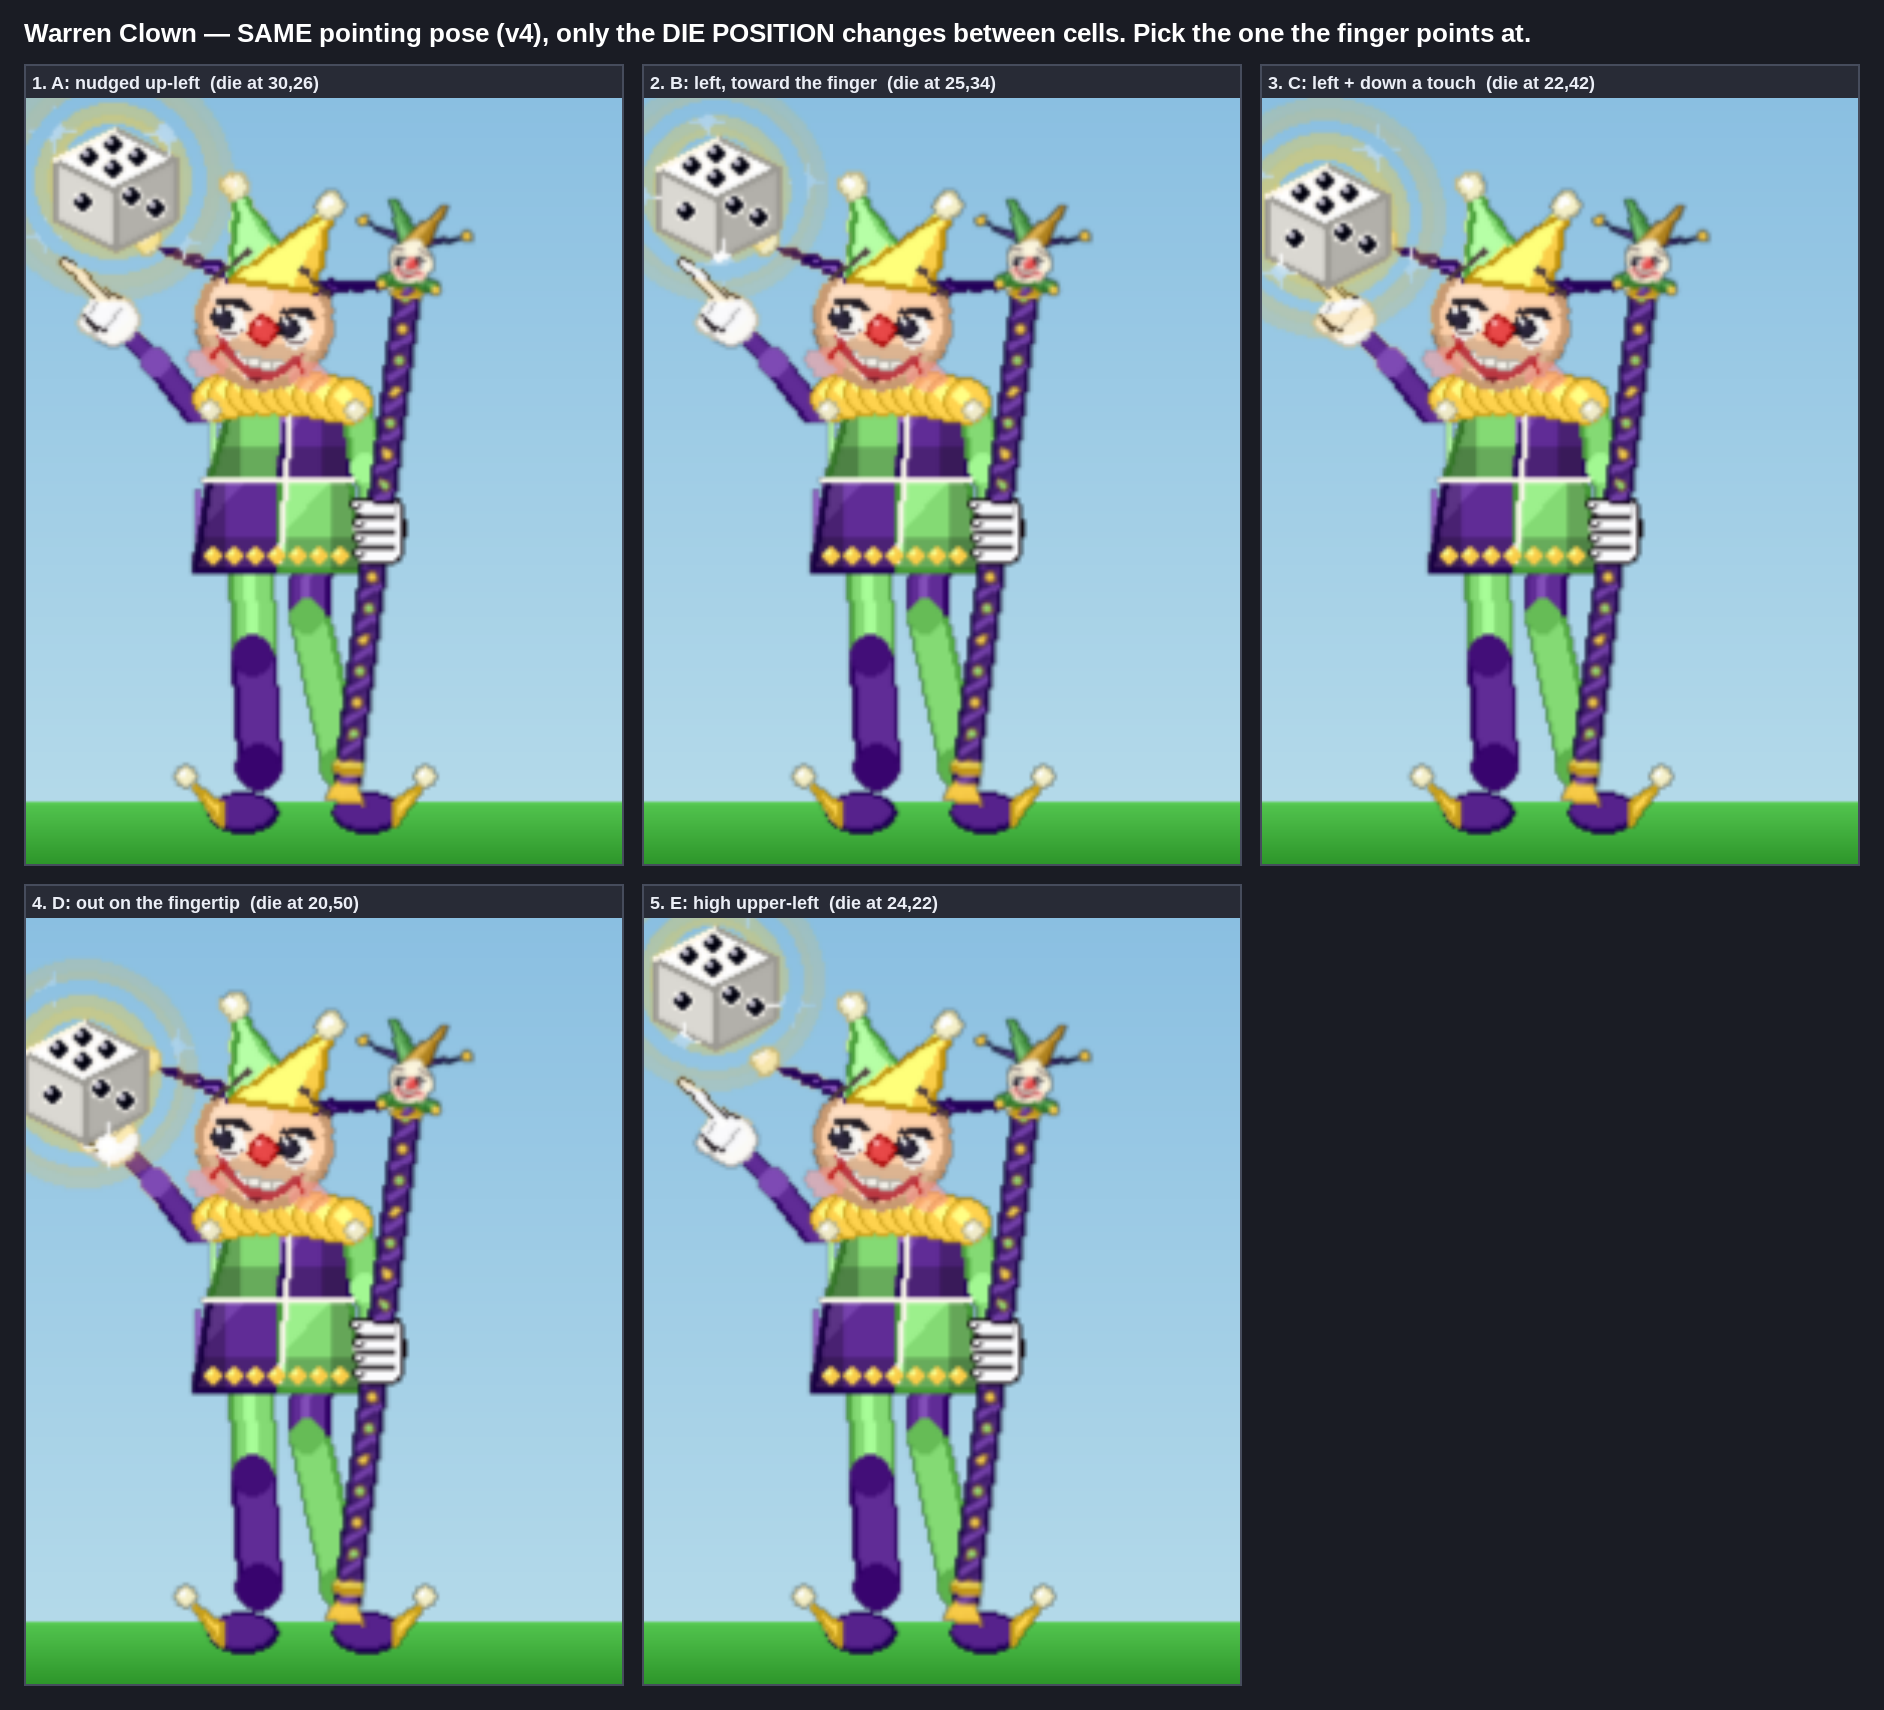
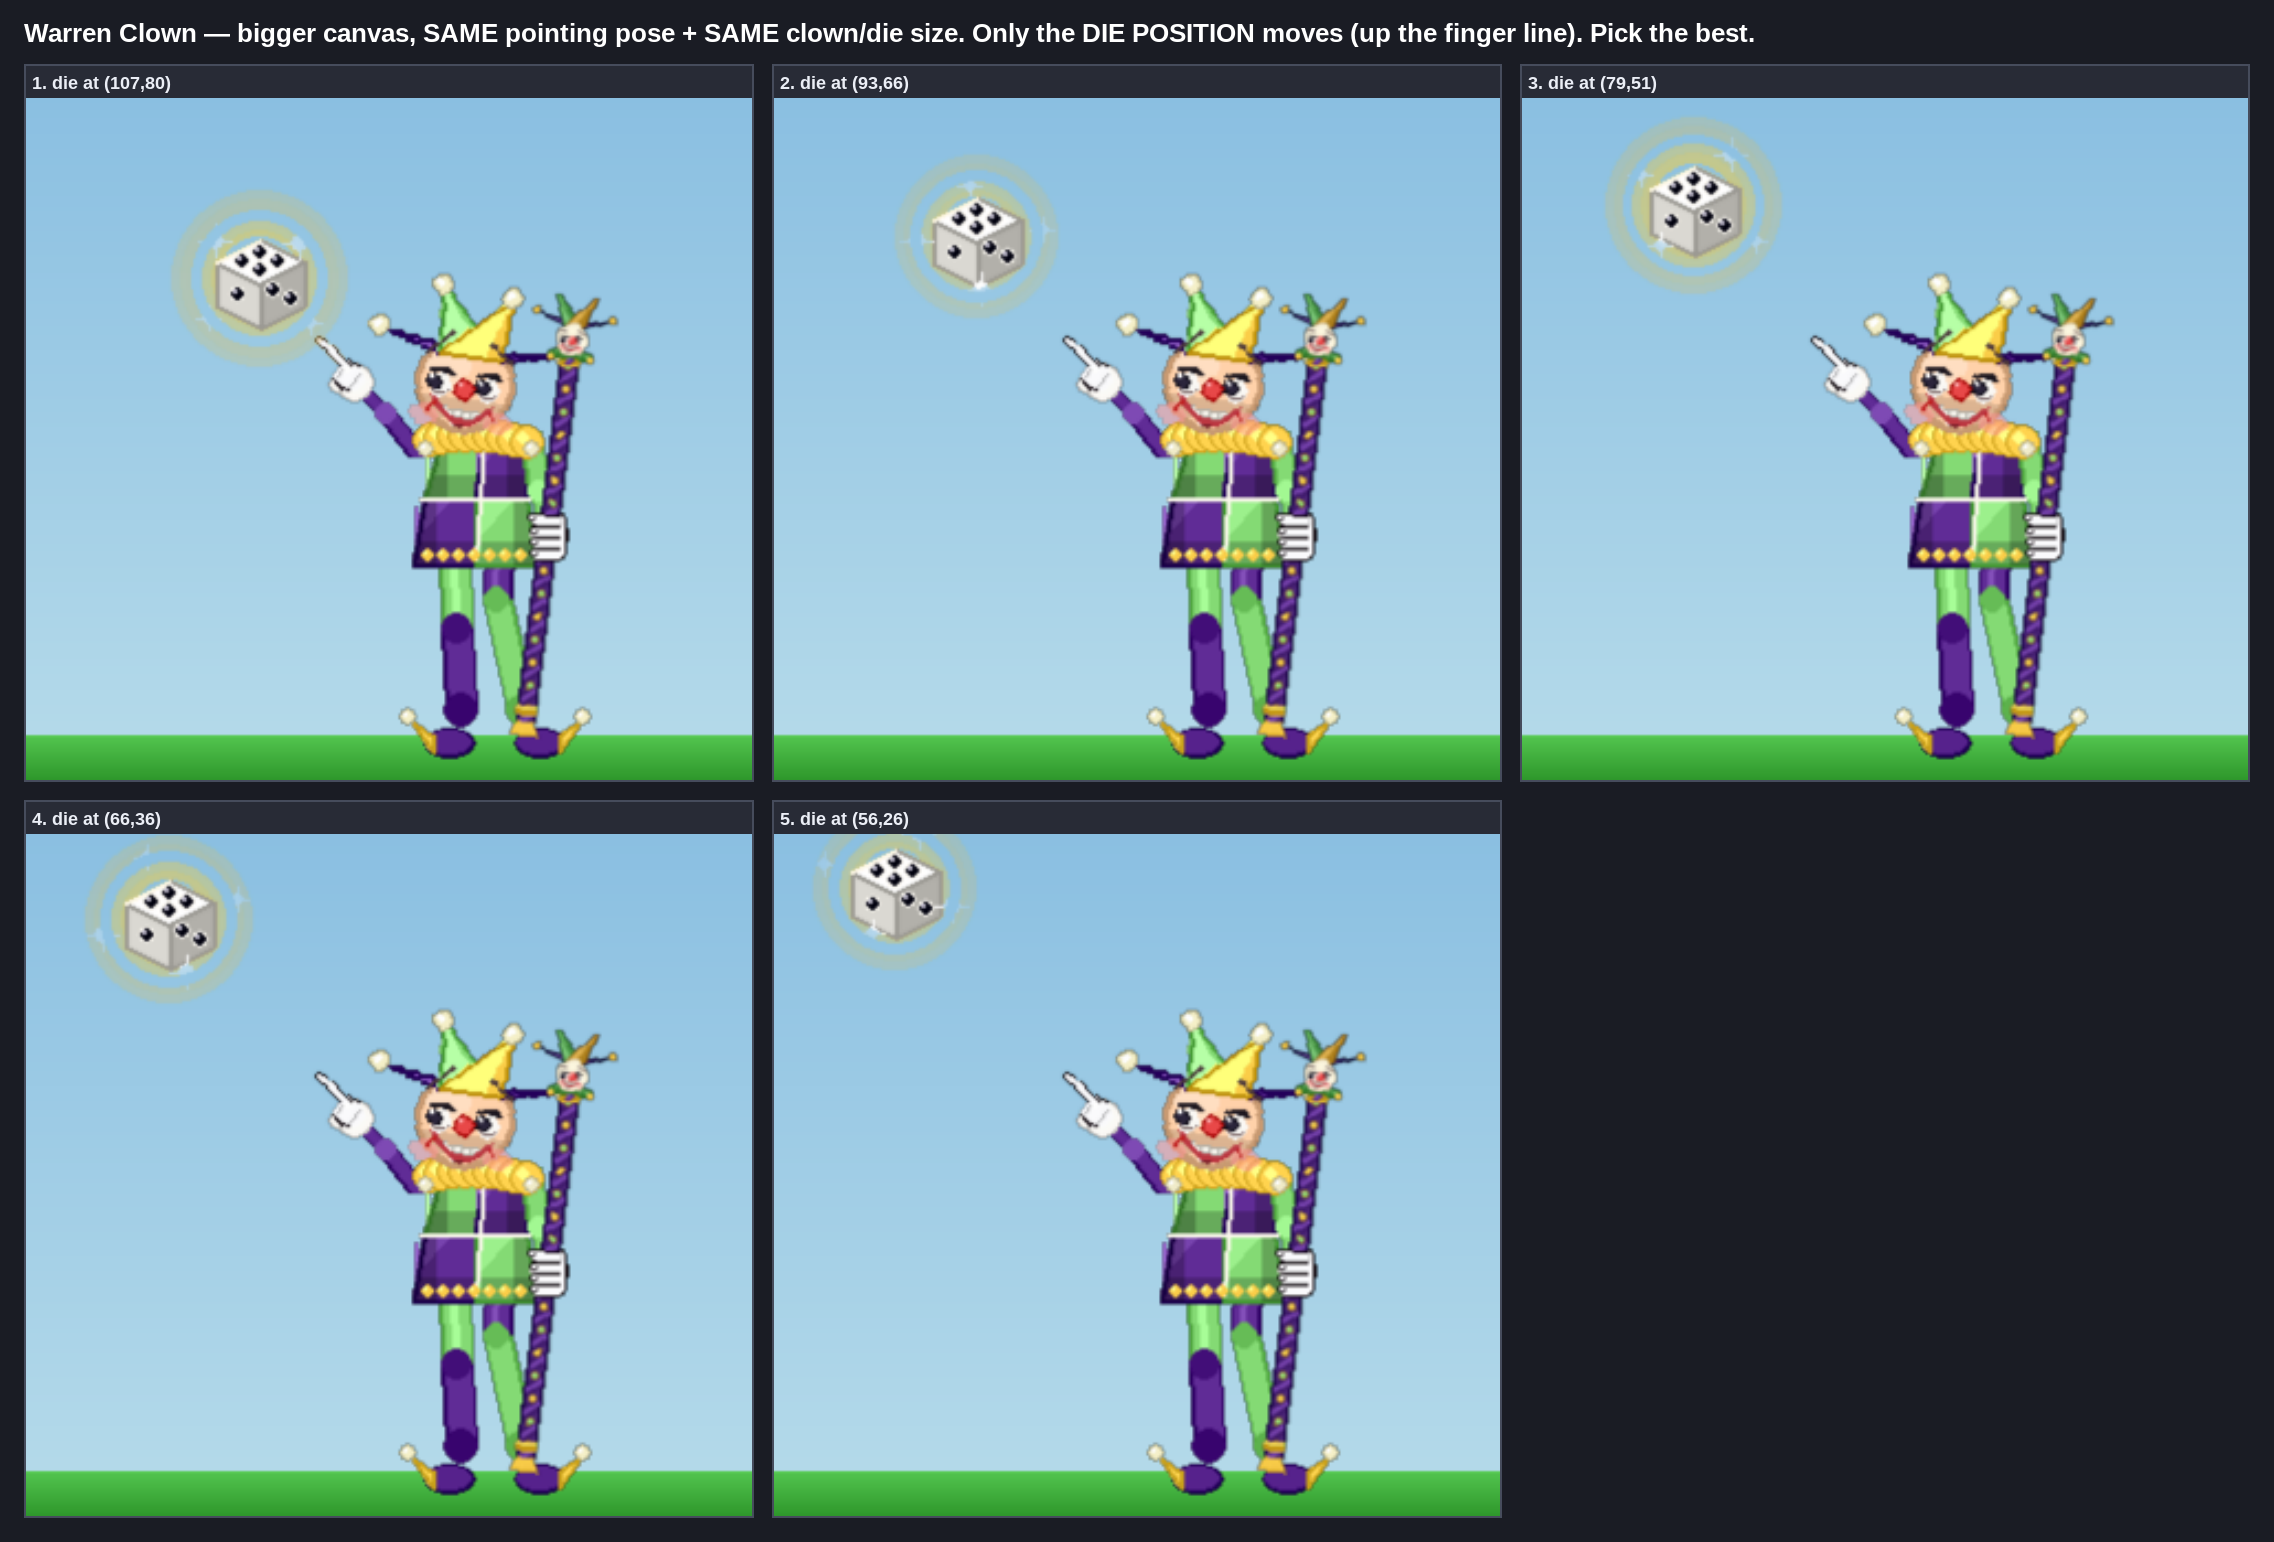
Round 17: enlarge canvas so die can sit up-left on the pointing line
Add ext_left/ext_top/ext_right margins to render_clown_staff_r17 (grow the
image, not the clown or die; figure shifts right/down). Re-do the die sweep
on the bigger canvas, walking the die up the extended finger's line into the
top-left so it reads as genuinely pointed-at.

diff --git a/tools/render_warren_sword.py b/tools/render_warren_sword.py
@@ -8540,18 +8540,25 @@ def _r17_die_hand(surf, hand, *, wrist, gesture="mitt", knuckles_up=False,
 
 def render_clown_staff_r17(idx, *, total_px, bauble_px, cup_dy, wrist,
                            gesture="mitt", knuckles_up=False, point_len=0.0,
-                           point_bow=0.0, die_dx=0, die_dy=0, die_pulse_off=2.0):
+                           point_bow=0.0, die_dx=0, die_dy=0,
+                           ext_left=0, ext_top=0, ext_right=0, die_pulse_off=2.0):
     """Round-17 hero panel — identical to r16 except the die-side hand is drawn by
     `_r17_die_hand` (a simple closed-glove gesture, not an open palm). Locked grip,
-    floating die, and heel-on-wrist ~47deg continuation are unchanged."""
+    floating die, and heel-on-wrist ~47deg continuation are unchanged.
+
+    `ext_left`/`ext_top`/`ext_right` grow the CANVAS (in VIEW px) without resizing
+    the clown or die — the figure simply shifts right/down by the margins — so the
+    floating die has room to sit further up-left (where the pointing finger aims)
+    without running off the frame. All zero reproduces the original panel exactly."""
     spec = dict(JESTERS[-1][1])
     spec.pop("no_shadow", None)
     ss = CLOWN_SS
     palette = shaped_palette(DAY_PHASE)
-    bw, bh = VIEW_W * ss, VIEW_H * ss
+    cw, ch = VIEW_W + ext_left + ext_right, VIEW_H + ext_top
+    bw, bh = cw * ss, ch * ss
     big = pygame.Surface((bw, bh))
 
-    ground_y = VIEW_FEET_Y + 4
+    ground_y = VIEW_FEET_Y + 4 + ext_top
     g_y = int(ground_y * ss)
     for y in range(g_y):
         t = 0.45 + 0.55 * (y / g_y)
@@ -8563,15 +8570,15 @@ def render_clown_staff_r17(idx, *, total_px, bauble_px, cup_dy, wrist,
                          (0, y), (bw, y))
     pygame.draw.line(big, _shade(palette['ground_top'], 15), (0, g_y), (bw, g_y))
 
-    layer = pygame.Surface((VIEW_W, VIEW_H), pygame.SRCALPHA)
-    jester_cx = VIEW_W // 2 - 10
-    feet_y = VIEW_FEET_Y
+    layer = pygame.Surface((cw, ch), pygame.SRCALPHA)
+    jester_cx = VIEW_W // 2 - 10 + ext_left
+    feet_y = VIEW_FEET_Y + ext_top
 
     hand_up = (jester_cx - 60, feet_y - 154 - cup_dy)
     build_jester(layer, jester_cx, feet_y, hand_up, **spec)
 
     die_cx = jester_cx - 56 + die_dx
-    die_cy = 30 + die_dy
+    die_cy = 30 + ext_top + die_dy
     die_hand = (hand_up[0], hand_up[1])
 
     _r17_die_hand(layer, die_hand, wrist=wrist, gesture=gesture,
@@ -8608,7 +8615,7 @@ def render_clown_staff_r17(idx, *, total_px, bauble_px, cup_dy, wrist,
     _r11_grip_glove(layer, (int(r_hand[0]), int(r_hand[1])), shaft_w, behind=False)
 
     big.blit(pygame.transform.smoothscale(layer, (bw, bh)), (0, 0))
-    return pygame.transform.smoothscale(big, (VIEW_W, VIEW_H))
+    return pygame.transform.smoothscale(big, (cw, ch))
 
 
 def _render_die_hand_crop_r17(kw, *, crop_px=150, zoom=7):
@@ -8754,26 +8761,26 @@ def _render_clown_r17_compare():
     print("wrote", out_path, f"({sheet_w}x{sheet_h})")
 
 
-_R17_DIE_POSITIONS = [
-    # 5 die placements that walk UP-LEFT along the pointing line so the player can
-    # pick the one that best lands on the extended finger. Offsets are added to the
-    # default die centre (jester_cx-56, 30); the label shows the resulting centre.
-    ("A: nudged up-left", dict(die_dx=-4, die_dy=-4)),
-    ("B: left, toward the finger", dict(die_dx=-9, die_dy=4)),
-    ("C: left + down a touch", dict(die_dx=-12, die_dy=12)),
-    ("D: out on the fingertip", dict(die_dx=-14, die_dy=20)),
-    ("E: high upper-left", dict(die_dx=-10, die_dy=-8)),
-]
+# The canvas is grown up-and-left so the die can sit where the pointing finger
+# actually aims (a steep up-left line that ran off the old frame). The clown/die
+# keep their size — only the image gets bigger and the figure shifts right/down.
+_R17_EXT_LEFT = 120
+_R17_EXT_TOP = 55
+_R17_EXT_RIGHT = 12
 
 
 def _render_clown_r17_die():
     """Round-17 DIE-POSITION sweep: the SAME pointing pose (gesture v4) on the whole
-    figure across 5 cells; the ONLY thing that changes between cells is where the
-    floating die sits, so the player can pick the placement that the extended finger
-    actually points at. Writes docs/warren_clown/round_17_die.png."""
-    SCALE = 3.0
-    disp_w = int(VIEW_W * SCALE)
-    disp_h = int(VIEW_H * SCALE)
+    figure across 5 cells, on an ENLARGED canvas; the ONLY thing that changes is
+    where the floating die sits — walked up-left along the extended finger's line —
+    so the player can pick the placement the clown actually points at. Writes
+    docs/warren_clown/round_17_die.png."""
+    extL, extT, extR = _R17_EXT_LEFT, _R17_EXT_TOP, _R17_EXT_RIGHT
+    cw = VIEW_W + extL + extR
+    ch = VIEW_H + extT
+    SCALE = 2.2
+    disp_w = int(cw * SCALE)
+    disp_h = int(ch * SCALE)
     cols, rows = 3, 2
     pad = 24
     head = 64
@@ -8789,18 +8796,28 @@ def _render_clown_r17_die():
     title_f = hud._font(26, True)
     label_f = hud._font(18, True)
     sheet.blit(title_f.render(
-        "Warren Clown — SAME pointing pose (v4), only the DIE POSITION changes "
-        "between cells. Pick the one the finger points at.", True,
+        "Warren Clown — bigger canvas, SAME pointing pose + SAME clown/die size. "
+        "Only the DIE POSITION moves (up the finger line). Pick the best.", True,
         (255, 255, 255)), (pad, 18))
 
     base_kw = dict(_CLOWN_R17_VARIANTS[3][1])      # the "Pointing - extended" pose
-    jester_cx = VIEW_W // 2 - 10
-    for i, (name, off) in enumerate(_R17_DIE_POSITIONS):
+    jester_cx = VIEW_W // 2 - 10 + extL
+    # Approx fingertip for this pose + the up-left direction it points along.
+    tip_x = jester_cx - 60 - 15.6
+    tip_y = (VIEW_FEET_Y + extT) - 156 - 19.8
+    dir_x, dir_y = -0.687, -0.727
+    s_values = (40, 60, 80, 100, 114)              # distance up the finger line
+
+    for i, s in enumerate(s_values):
+        tx = tip_x + dir_x * s
+        ty = tip_y + dir_y * s
+        die_dx = int(round(tx - (jester_cx - 56)))
+        die_dy = int(round(ty - (30 + extT)))
         kw = dict(base_kw)
-        kw.update(off)
+        kw.update(die_dx=die_dx, die_dy=die_dy,
+                  ext_left=extL, ext_top=extT, ext_right=extR)
         fig = render_clown_staff_r17(i, **kw)
-        die_c = (jester_cx - 56 + off["die_dx"], 30 + off["die_dy"])
-        label = f"{i + 1}. {name}  (die at {die_c[0]},{die_c[1]})"
+        label = f"{i + 1}. die at ({int(round(tx))},{int(round(ty))})"
         r, c = divmod(i, cols)
         cx = pad + c * (cell_w + gap)
         cy = head + r * (cell_h + gap)
